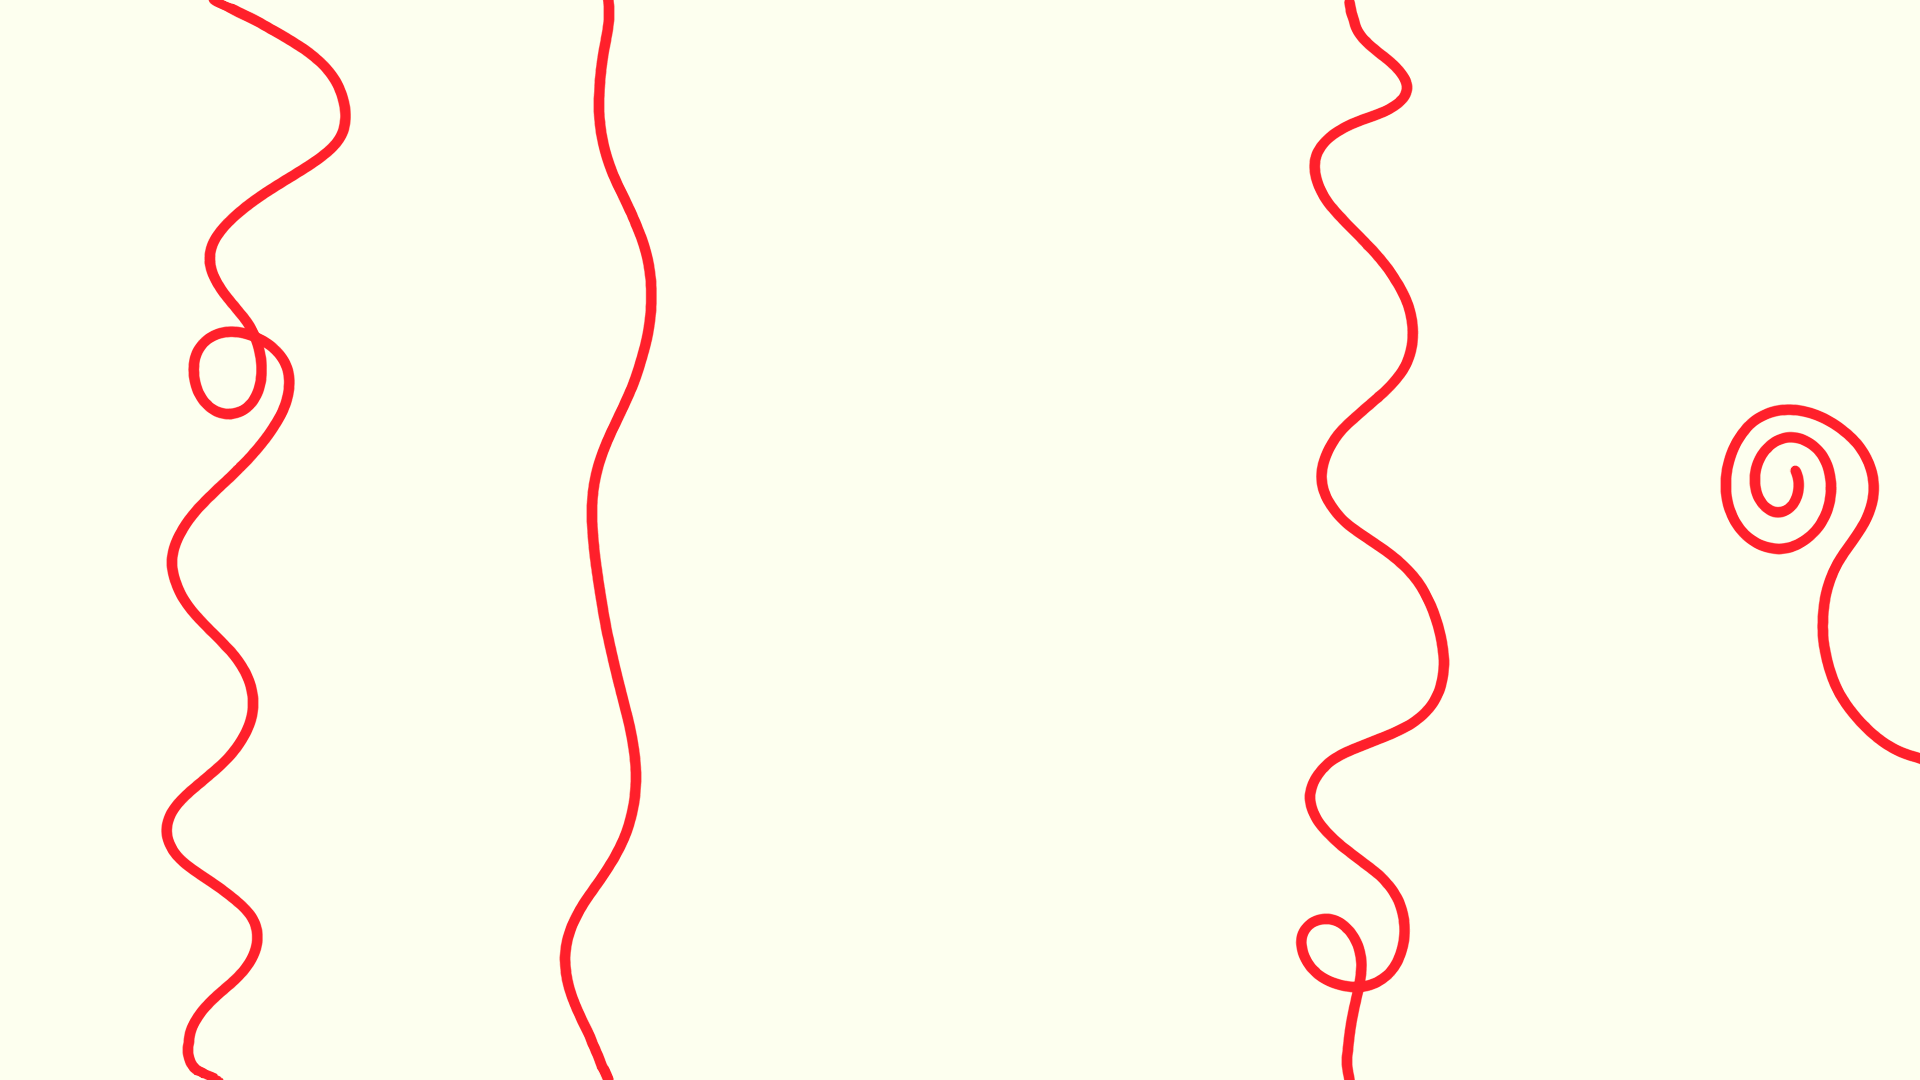
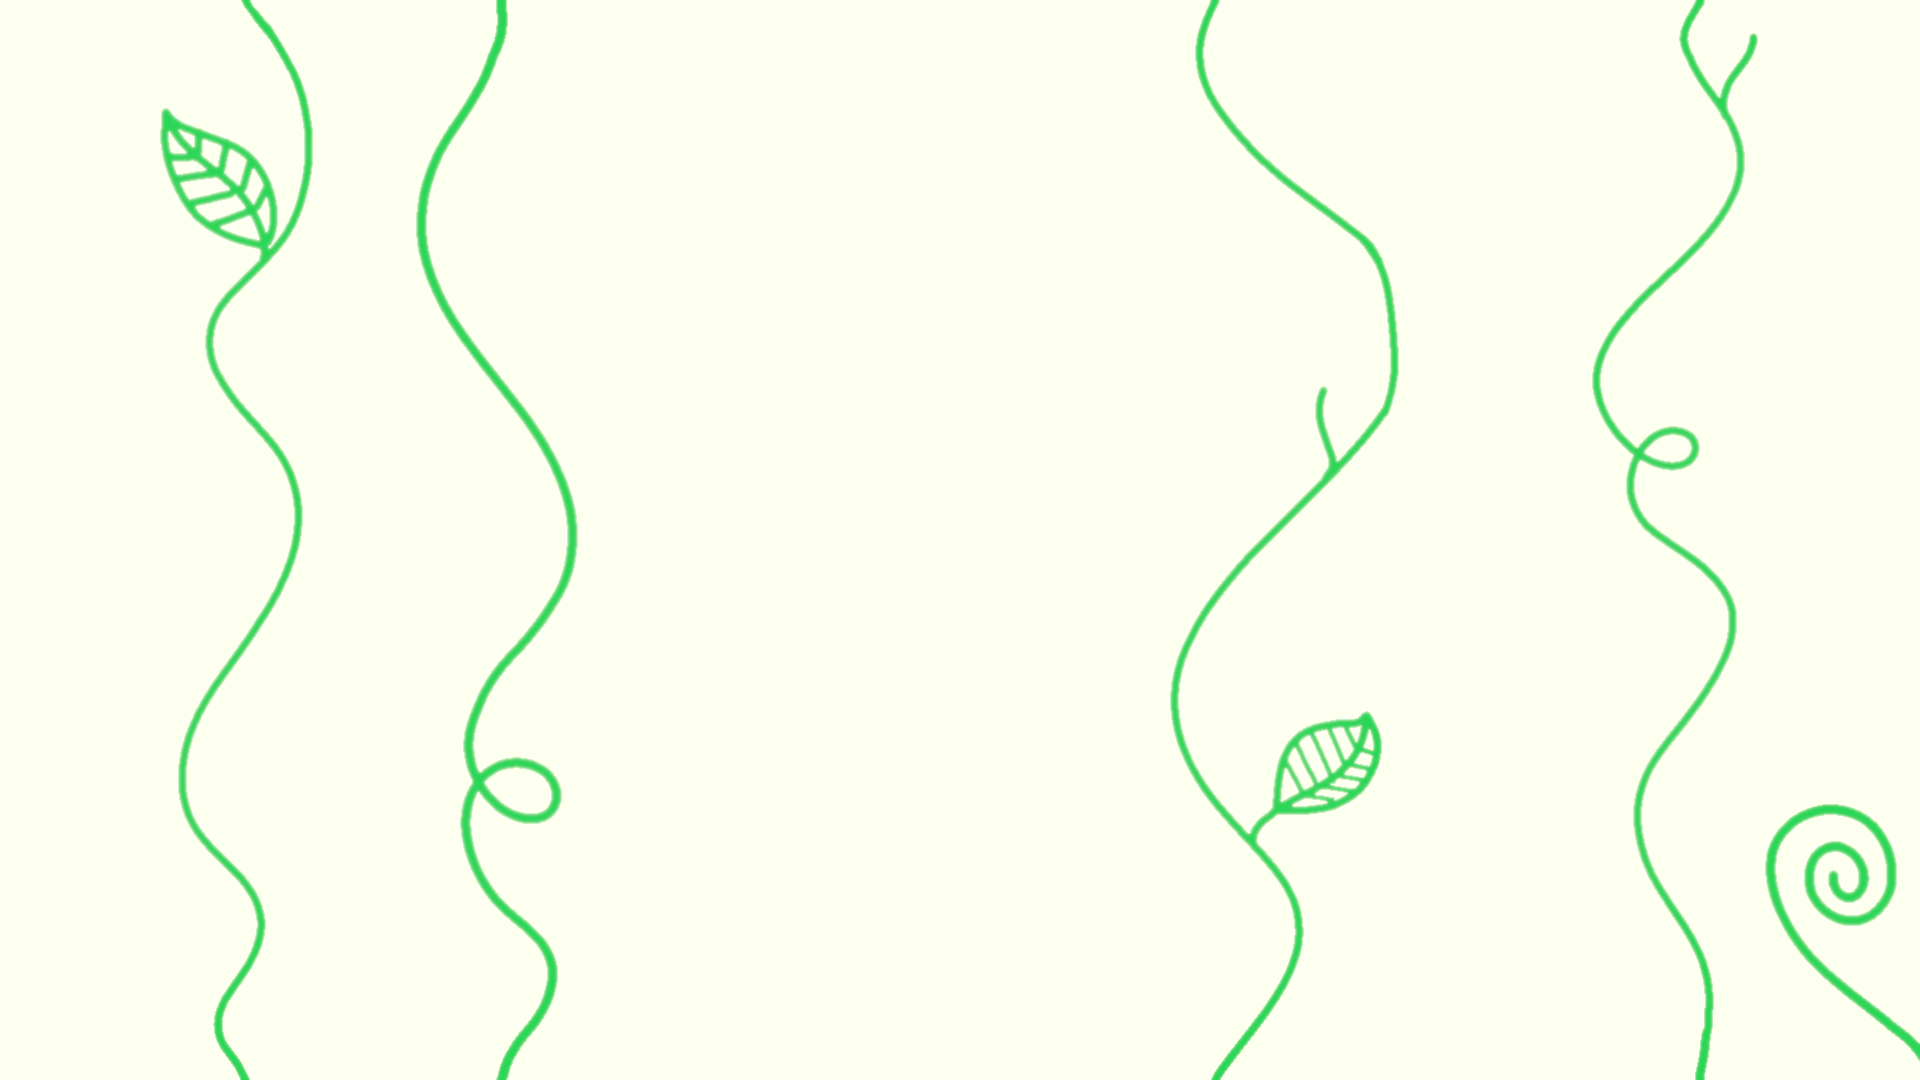
add of floral background

diff --git a/src/App.tsx b/src/App.tsx
@@ -18,8 +18,7 @@ const App = () => {
 };
 
 const StyledBox = styled(Box)(({ theme }) => ({
-  backgroundColor: theme.palette.main,
-  backgroundImage: `url(resources/background_test.png)`
+  backgroundImage: `url(resources/background_test.png)`,
 }));
 
 export default App;

diff --git a/src/theme.js b/src/theme.js
@@ -3,6 +3,7 @@ import { createTheme, responsiveFontSizes } from "@mui/material/styles";
 const theme = createTheme({
   typography: {
     fontFamily: ["Montserrat", "Lalezar"],
+    fontSize: 18
   },
   palette: {
     main: "#FDFFEF",

diff --git a/src/components/body/Info.tsx b/src/components/body/Info.tsx
@@ -71,7 +71,7 @@ const Info = () => {
 };
 
 const StyledContact = styled(Box)(({ theme }) => ({
-  marginBottom: theme.spacing(4),
+  marginBottom: theme.spacing(4)
 }));
 
 const StyledInfo = styled(Box)(() => ({
